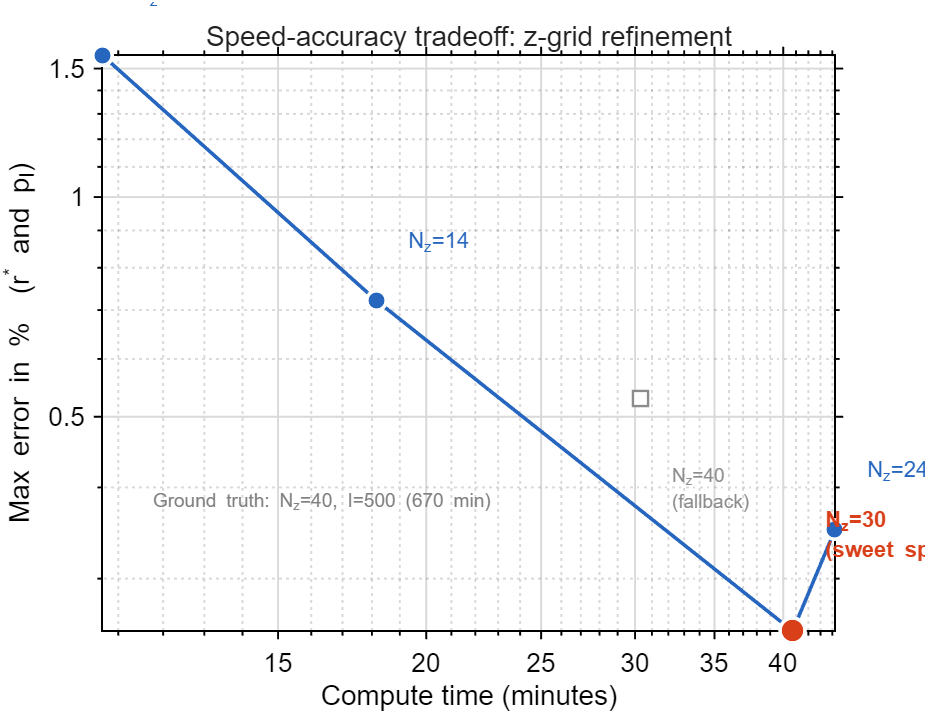
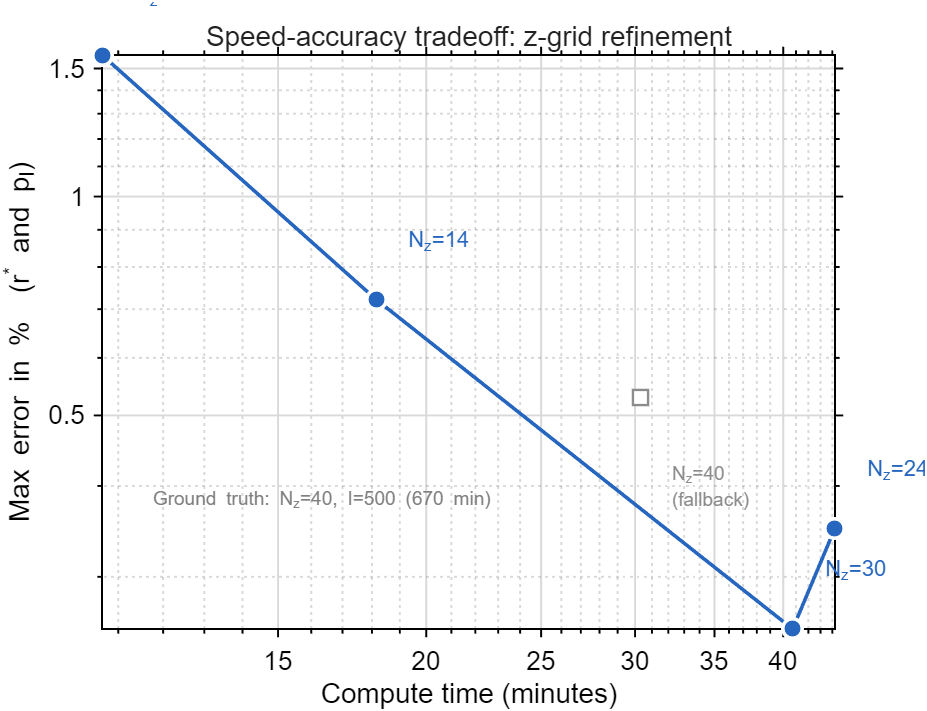
document grid convergence review

diff --git a/calibracion/grid_convergence_test.m b/calibracion/grid_convergence_test.m
@@ -385,7 +385,7 @@ end
 %% ─── FIGURA 2: tradeoff frontier (tiempo X, max-error Y) ────────────────────
 function plot_tradeoff_fig(results, out_dir)
 % Curva Pareto: X = tiempo (min, log), Y = max |% error| sobre [r*, p_I] (log).
-% Muestra el "elbow" y anota el sweet spot Nz=30.
+% La eleccion final de grilla usa Nz=40 por estabilidad numerica.
 
 n    = numel(results);
 gt   = results(n);
@@ -411,7 +411,7 @@ idx_fb      = find(is_fallback);
 
 c_main   = [0.15 0.40 0.75];
 c_fallbk = [0.55 0.55 0.55];
-c_sweet  = [0.85 0.25 0.10];   % rojo para sweet spot
+c_ref    = [0.85 0.25 0.10];   % rojo para grilla recomendada
 
 % ── datos limpios ordenados por tiempo ───────────────────────────────────────
 xc = elapsed_min(idx_clean);
@@ -443,12 +443,12 @@ for k = 1:numel(idx_clean)
     yv = max_err(idx_clean(k));
     if ~isfinite(xv) || ~isfinite(yv) || yv <= 0, continue; end
     nz_k = nz_vec(idx_clean(k));
-    % sweet spot Nz=30: label rojo + anotación
-    if nz_k == 30
-        plot(xv, yv, 'o','Color',c_sweet,'MarkerFaceColor',c_sweet,...
+    % Nz=40 es la grilla final recomendada; Nz=30 no se marca como optimo.
+    if nz_k == 40
+        plot(xv, yv, 'o','Color',c_ref,'MarkerFaceColor',c_ref,...
             'MarkerEdgeColor',[1 1 1],'MarkerSize',9,'LineWidth',1.3);
-        text(xv*1.06, yv*1.35, sprintf('N_z=%d\n(sweet spot)', nz_k),...
-            'FontSize',8,'Color',c_sweet,'FontWeight','bold','Interpreter','tex');
+        text(xv*1.06, yv*1.35, sprintf('N_z=%d\n(grilla final)', nz_k),...
+            'FontSize',8,'Color',c_ref,'FontWeight','bold','Interpreter','tex');
     else
         text(xv*1.06, yv*1.2, sprintf('N_z=%d', nz_k),...
             'FontSize',8,'Color',c_main,'Interpreter','tex');

diff --git a/docs/REVISION_CONVERGENCIA_NZ.md b/docs/REVISION_CONVERGENCIA_NZ.md
@@ -1,0 +1,57 @@
+# Revision de convergencia de la grilla Nz
+
+Este archivo resume la evidencia numerica usada para revisar el tradeoff entre
+velocidad y precision de la grilla de productividad. No forma parte del paper
+principal; queda como nota de revision del paquete de replicacion.
+
+Fuente principal:
+
+```text
+outputs/grid_convergence/grid_convergence_table.csv
+calibracion/grid_convergence_test.m
+```
+
+No se encontro una corrida `Nz=28` en el paquete. La prueba guardada usa
+`Nz = 7, 14, 24, 30, 40` con `I = 200`, y compara contra la referencia
+`Nz = 40, I = 500`.
+
+## Tabla principal
+
+El error porcentual se calcula contra la referencia de produccion
+`Nz = 40, I = 500`. El "error maximo" toma el mayor valor absoluto entre los
+errores de T4, T5, Tkz y r*.
+
+| Configuracion | Tiempo | T4 | T5 | Tkz | r* | Error maximo | Lectura |
+|---|---:|---:|---:|---:|---:|---:|---|
+| Nz = 7, I = 200 | 10.66 min | +0.583% | -1.191% | +5.225% | -1.566% | 5.225% | Rapida, pero imprecisa en Tkz |
+| Nz = 14, I = 200 | 18.15 min | +0.187% | -0.505% | +1.635% | -0.722% | 1.635% | Diagnostico intermedio |
+| Nz = 24, I = 200 | 44.23 min | +0.052% | -0.212% | +0.387% | -0.350% | 0.387% | Buena aproximacion puntual |
+| Nz = 30, I = 200 | 40.74 min | +0.019% | -0.136% | +0.081% | -0.254% | 0.254% | Bajo error puntual, pero no seleccionado por estabilidad |
+| Nz = 40, I = 200 | 30.32 min | +0.625% | +0.160% | +1.765% | -0.114% | 1.765% | Grilla base rapida del paquete |
+| Nz = 40, I = 500 | 670.68 min | 0.000% | 0.000% | 0.000% | 0.000% | 0.000% | Referencia de produccion |
+
+## Nota sobre Nz = 30
+
+No conviene describir `Nz = 30` como punto optimo. En la tabla de convergencia
+su error porcentual puntual es bajo, pero la revision posterior de estabilidad
+mostro que era menos robusto que `Nz = 40`:
+
+| Metricas de estabilidad post-correccion | Nz = 40 | Nz = 30 |
+|---|---:|---:|
+| Fallback points | 23 | 193 |
+| zero_drift_max_resid | 1.16e-03 | 5.40e-01 |
+| Tiempo FAST_DEBUG | 75.8 min | 64.7 min |
+
+La diferencia de tiempo entre `Nz = 30` y `Nz = 40` no compensa la perdida de
+estabilidad numerica. Por eso la especificacion documentada mantiene `Nz = 40`
+como grilla base.
+
+## Conclusion operativa
+
+- Para diagnosticos muy rapidos, `Nz = 7` o `Nz = 14` sirven solo como pruebas
+  preliminares.
+- Para revisar convergencia, usar la tabla completa y no interpretar el menor
+  error puntual como criterio unico.
+- Para el paquete final y las corridas reportables, mantener `Nz = 40`.
+- La referencia de produccion sigue siendo `Nz = 40, I = 500`, aunque su costo
+  computacional es alto: 670.68 minutos.

diff --git a/docs/INFORMALIDAD_RIQUEZA_HA_PERU.md b/docs/INFORMALIDAD_RIQUEZA_HA_PERU.md
@@ -12,11 +12,10 @@ Enzo Andrés Nevado Martínez}\\[0.8cm]
 
 {\normalsize \textbf{Asesor:} César Saturnino Salinas Depaz}\\[0.8cm]
 
-{\normalsize Lima, Junio 2026}\\[0.5cm]
-
-{\normalsize \textbf{Código de replicación:}\\
-\url{https://github.com/johnbarraza/aiyagari-2firms-peru}}
+{\normalsize Lima, Junio 2026\footnotemark}
 \end{center}
+
+\footnotetext{Replication package: \href{https://github.com/johnbarraza/aiyagari-2firms-peru}{https://github.com/johnbarraza/aiyagari-2firms-peru}.}
 
 \newpage
 